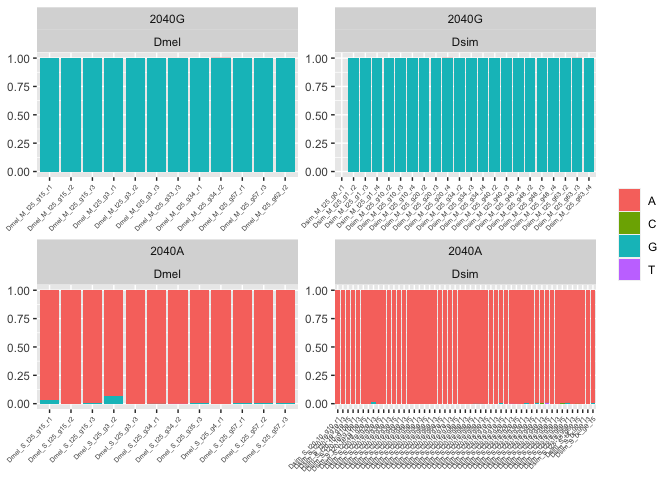
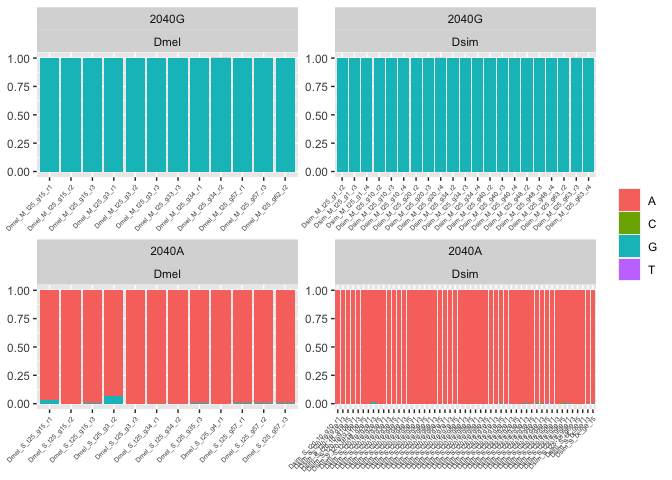
png output added; remove samples with 0 coverage of pos 2040 (effectively Dsim_M_t25_g0_r1.sort.bam)

Changed region(s): [[0.4688, 0.125, 0.875, 0.5]]

diff --git a/rmd-files/2040-snp_test.md b/rmd-files/2040-snp_test.md
@@ -31,6 +31,7 @@ t$id<-gsub(".sort.bam","",t$id)
 t$species<-gsub("_.*","",t$id)
 t$variant<-gsub("_t.*","",t$id)
 t$variant<-gsub(".*_","",t$variant)
+t<-subset(t,cov!=0)
 t$A<-t$A/t$cov
 t$C<-t$C/t$cov
 t$G<-t$G/t$cov
@@ -47,12 +48,9 @@ g<-ggplot(tx, aes(x=id, y=freq,fill=snp)) + geom_bar(stat = "identity")+theme(le
 plot(g)
 ```
 
-    ## Warning: Removed 4 rows containing missing values (position_stack).
-
 ![](2040-snp_test_files/figure-gfm/unnamed-chunk-2-1.png)<!-- -->
 
 ``` r
 ggsave("/Volumes/Temp2/filip/2040A/results/snp-p/figures/2040-snp_test.pdf",width=12,height=6)
+ggsave("/Volumes/Temp2/filip/2040A/results/snp-p/figures/2040-snp_test.png",width=12,height=6)
 ```
-
-    ## Warning: Removed 4 rows containing missing values (position_stack).

diff --git a/rmd-files/testing_SNPs.md b/rmd-files/testing_SNPs.md
@@ -63,4 +63,5 @@ plot(g)
 
 ``` r
 ggsave("/Volumes/Temp2/filip/2040A/results/diagnostic_SNPs/figures/SNPtest-count_overview.pdf",width=12,height=6)
+ggsave("/Volumes/Temp2/filip/2040A/results/diagnostic_SNPs/figures/SNPtest-count_overview.png",width=12,height=6)
 ```
